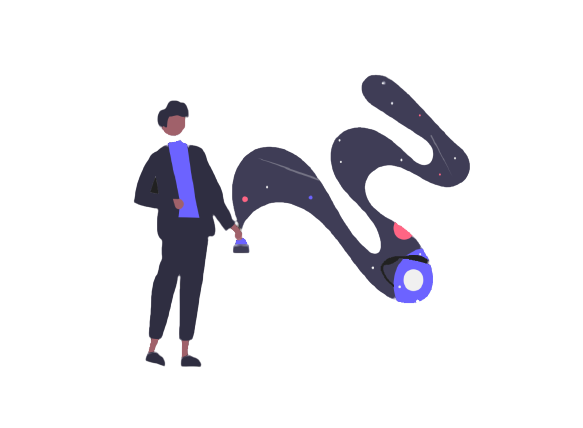
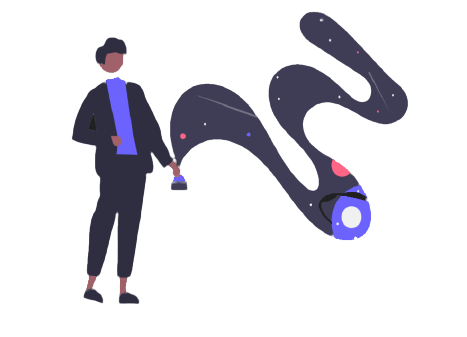
fixed a major create account bug

Changed region(s): [[0.1499, 0.0297, 0.8994, 0.9199], [0.6895, 0.2077, 0.7195, 0.2374]]

diff --git a/lib/pages/onboardingpage.dart b/lib/pages/onboardingpage.dart
@@ -94,6 +94,14 @@ class _OnboardingPageState extends State<OnboardingPage> {
               "/" +
               password.toString());
       await http.get(url);
+      dynamic url2 = Uri.parse(
+          "https://glacial-everglades-59975.herokuapp.com/api/login/" +
+              username +
+              "/" +
+              password);
+      dynamic responseOBJ = await http.get(url2);
+      dynamic responseJSON = jsonDecode(responseOBJ.body);
+      user = responseJSON;
       Navigator.pushReplacementNamed(
         context,
         "homePage",
@@ -195,11 +203,43 @@ class _OnboardingPageState extends State<OnboardingPage> {
           indicatorDesign: IndicatorDesign.line(
             lineDesign: LineDesign(
               lineType: DesignType.line_nonuniform,
-              lineSpacer: 25.0,
+              lineSpacer: 22.0,
+              lineWidth: 16.0,
             ),
           ),
         ),
         pages: [
+          // Page 0 - Welcome
+          PageModel(
+            widget: Column(
+              mainAxisAlignment: MainAxisAlignment.center,
+              children: [
+                Spacer(),
+                Image.asset(
+                  "assets/images/content_illustrations/5.png",
+                ),
+                //Spacer(),
+                Container(
+                  width: double.infinity,
+                  child: Text(
+                    "Welcome to Aurora",
+                    style: pageTitleStyle,
+                  ),
+                ),
+                SizedBox(height: 10.0),
+                Container(
+                  width: double.infinity,
+                  child: Text(
+                    "An All-in-One multi-purpose social media! \nWith an aesthetically pleasing, minimal and simple interface.",
+                    style: pageInfoStyle,
+                  ),
+                ),
+                Spacer(),
+                Spacer(),
+              ],
+            ),
+          ),
+
           // Page 1 - Feed and weather
           PageModel(
             widget: Column(
